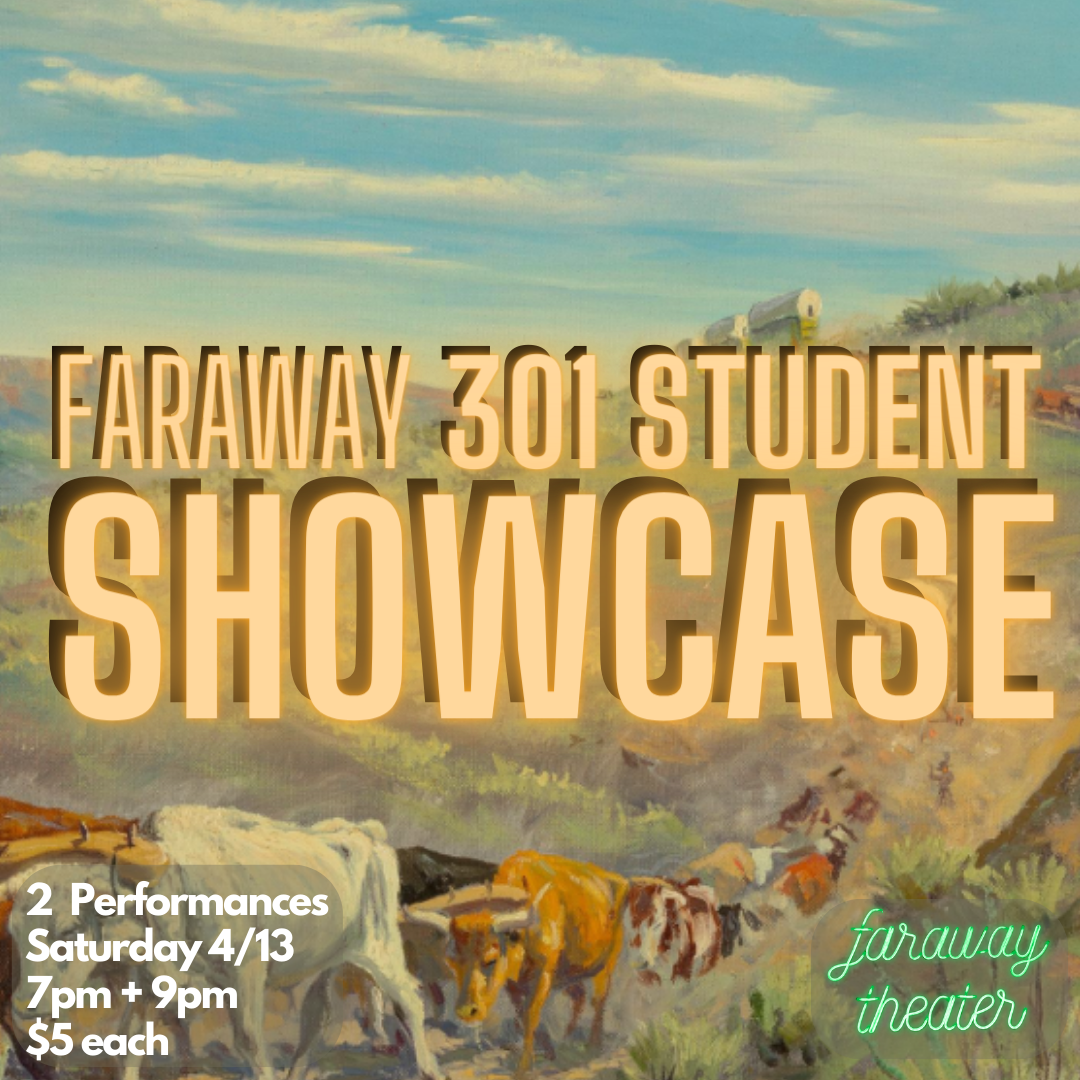
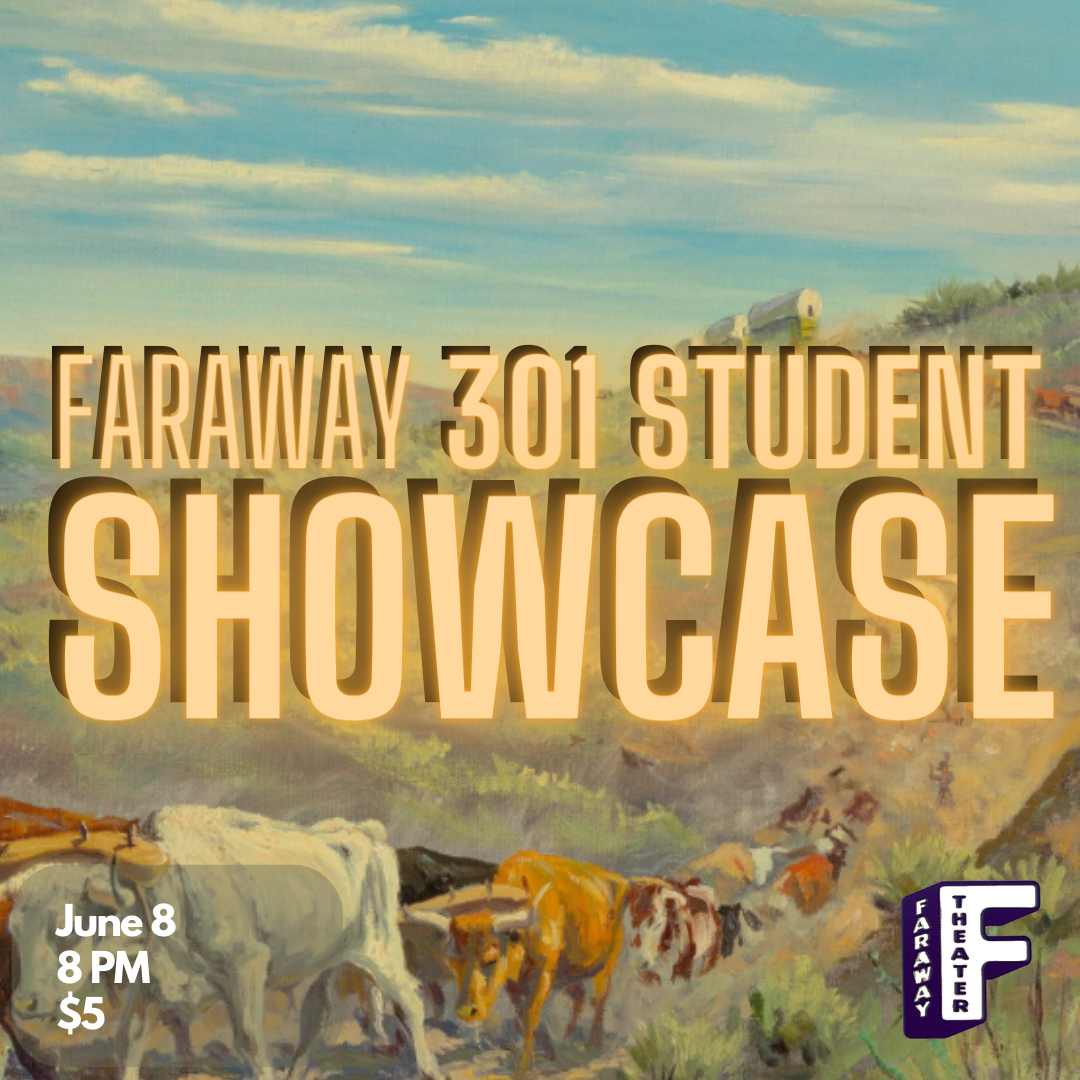
Updates

Changed region(s): [[0.7639, 0.7944, 0.9778, 0.9778], [0.0306, 0.7944, 0.3056, 0.9778]]

diff --git a/assets/index-BUV68XlL.js b/assets/index-BUV68XlL.js
@@ -1,0 +1,1 @@
+var Nt=Object.defineProperty;var Bt=(e,t,l)=>t in e?Nt(e,t,{enumerable:!0,configurable:!0,writable:!0,value:l}):e[t]=l;var lt=(e,t,l)=>(Bt(e,typeof t!="symbol"?t+"":t,l),l);(function(){const t=document.createElement("link").relList;if(t&&t.supports&&t.supports("modulepreload"))return;for(const i of document.querySelectorAll('link[rel="modulepreload"]'))n(i);new MutationObserver(i=>{for(const o of i)if(o.type==="childList")for(const a of o.addedNodes)a.tagName==="LINK"&&a.rel==="modulepreload"&&n(a)}).observe(document,{childList:!0,subtree:!0});function l(i){const o={};return i.integrity&&(o.integrity=i.integrity),i.referrerPolicy&&(o.referrerPolicy=i.referrerPolicy),i.crossOrigin==="use-credentials"?o.credentials="include":i.crossOrigin==="anonymous"?o.credentials="omit":o.credentials="same-origin",o}function n(i){if(i.ep)return;i.ep=!0;const o=l(i);fetch(i.href,o)}})();function F(){}function At(e){return e()}function ht(){return Object.create(null)}function Q(e){e.forEach(At)}function jt(e){return typeof e=="function"}function C(e,t){return e!=e?t==t:e!==t||e&&typeof e=="object"||typeof e=="function"}let tt;function at(e,t){return e===t?!0:(tt||(tt=document.createElement("a")),tt.href=t,e===tt.href)}function Ct(e){return Object.keys(e).length===0}function h(e,t){e.appendChild(t)}function M(e,t,l){e.insertBefore(t,l||null)}function b(e){e.parentNode&&e.parentNode.removeChild(e)}function Y(e,t){for(let l=0;l<e.length;l+=1)e[l]&&e[l].d(t)}function w(e){return document.createElement(e)}function S(e){return document.createTextNode(e)}function $(){return S(" ")}function nt(){return S("")}function k(e,t,l){l==null?e.removeAttribute(t):e.getAttribute(t)!==l&&e.setAttribute(t,l)}function Lt(e){return Array.from(e.childNodes)}function B(e,t){t=""+t,e.data!==t&&(e.data=t)}function y(e,t,l,n){l==null?e.style.removeProperty(t):e.style.setProperty(t,l,n?"important":"")}let ft;function X(e){ft=e}const q=[],dt=[];let z=[];const gt=[],It=Promise.resolve();let rt=!1;function Wt(){rt||(rt=!0,It.then(Et))}function ct(e){z.push(e)}const ot=new Set;let W=0;function Et(){if(W!==0)return;const e=ft;do{try{for(;W<q.length;){const t=q[W];W++,X(t),qt(t.$$)}}catch(t){throw q.length=0,W=0,t}for(X(null),q.length=0,W=0;dt.length;)dt.pop()();for(let t=0;t<z.length;t+=1){const l=z[t];ot.has(l)||(ot.add(l),l())}z.length=0}while(q.length);for(;gt.length;)gt.pop()();rt=!1,ot.clear(),X(e)}function qt(e){if(e.fragment!==null){e.update(),Q(e.before_update);const t=e.dirty;e.dirty=[-1],e.fragment&&e.fragment.p(e.ctx,t),e.after_update.forEach(ct)}}function zt(e){const t=[],l=[];z.forEach(n=>e.indexOf(n)===-1?t.push(n):l.push(n)),l.forEach(n=>n()),z=t}const et=new Set;let N;function H(){N={r:0,c:[],p:N}}function J(){N.r||Q(N.c),N=N.p}function g(e,t){e&&e.i&&(et.delete(e),e.i(t))}function v(e,t,l,n){if(e&&e.o){if(et.has(e))return;et.add(e),N.c.push(()=>{et.delete(e),n&&(l&&e.d(1),n())}),e.o(t)}else n&&n()}function T(e){return(e==null?void 0:e.length)!==void 0?e:Array.from(e)}function E(e){e&&e.c()}function D(e,t,l){const{fragment:n,after_update:i}=e.$$;n&&n.m(t,l),ct(()=>{const o=e.$$.on_mount.map(At).filter(jt);e.$$.on_destroy?e.$$.on_destroy.push(...o):Q(o),e.$$.on_mount=[]}),i.forEach(ct)}function A(e,t){const l=e.$$;l.fragment!==null&&(zt(l.after_update),Q(l.on_destroy),l.fragment&&l.fragment.d(t),l.on_destroy=l.fragment=null,l.ctx=[])}function Ht(e,t){e.$$.dirty[0]===-1&&(q.push(e),Wt(),e.$$.dirty.fill(0)),e.$$.dirty[t/31|0]|=1<<t%31}function L(e,t,l,n,i,o,a=null,f=[-1]){const r=ft;X(e);const c=e.$$={fragment:null,ctx:[],props:o,update:F,not_equal:i,bound:ht(),on_mount:[],on_destroy:[],on_disconnect:[],before_update:[],after_update:[],context:new Map(t.context||(r?r.$$.context:[])),callbacks:ht(),dirty:f,skip_bound:!1,root:t.target||r.$$.root};a&&a(c.root);let s=!1;if(c.ctx=l?l(e,t.props||{},(u,m,..._)=>{const d=_.length?_[0]:m;return c.ctx&&i(c.ctx[u],c.ctx[u]=d)&&(!c.skip_bound&&c.bound[u]&&c.bound[u](d),s&&Ht(e,u)),m}):[],c.update(),s=!0,Q(c.before_update),c.fragment=n?n(c.ctx):!1,t.target){if(t.hydrate){const u=Lt(t.target);c.fragment&&c.fragment.l(u),u.forEach(b)}else c.fragment&&c.fragment.c();t.intro&&g(e.$$.fragment),D(e,t.target,t.anchor),Et()}X(r)}class I{constructor(){lt(this,"$$");lt(this,"$$set")}$destroy(){A(this,1),this.$destroy=F}$on(t,l){if(!jt(l))return F;const n=this.$$.callbacks[t]||(this.$$.callbacks[t]=[]);return n.push(l),()=>{const i=n.indexOf(l);i!==-1&&n.splice(i,1)}}$set(t){this.$$set&&!Ct(t)&&(this.$$.skip_bound=!0,this.$$set(t),this.$$.skip_bound=!1)}}const Jt="4";typeof window<"u"&&(window.__svelte||(window.__svelte={v:new Set})).v.add(Jt);function _t(e,t,l){const n=e.slice();return n[6]=t[l],n}function Rt(e){let t,l,n,i;return{c(){t=w("a"),l=w("img"),i=$(),k(l,"alt",e[6].title),y(l,"max-width","80%"),y(l,"max-height","80%"),y(l,"margin-top",".5em"),at(l.src,n=e[6].img)||k(l,"src",n),k(t,"href",e[6].link),k(t,"target","_blank")},m(o,a){M(o,t,a),h(t,l),h(t,i)},p:F,d(o){o&&b(t)}}}function yt(e){let t,l=e[6].link!==void 0&&e[6].link!==""&&Rt(e);return{c(){l&&l.c(),t=nt()},m(n,i){l&&l.m(n,i),M(n,t,i)},p(n,i){n[6].link!==void 0&&n[6].link!==""&&l.p(n,i)},d(n){n&&b(t),l&&l.d(n)}}}function Ut(e){let t;return{c(){t=w("div"),t.innerHTML='<div style="position: absolute; top: 50%; left: 50%; transform: translate(-50%, -50%); font-size: 8em; color: white;">X</div>',y(t,"position","absolute"),y(t,"top","0"),y(t,"left","0"),y(t,"width","100%"),y(t,"height","100%")},m(l,n){M(l,t,n)},d(l){l&&b(t)}}}function Gt(e){let t,l,n,i,o,a=T(e[1]),f=[];for(let c=0;c<a.length;c+=1)f[c]=yt(_t(e,a,c));let r=e[2]&&Ut();return{c(){t=w("div"),l=w("span"),n=S(e[0]),i=$();for(let c=0;c<f.length;c+=1)f[c].c();o=$(),r&&r.c(),y(l,"margin-left","5px"),k(t,"id","cell"),y(t,"display","flex"),y(t,"flex-direction","row"),y(t,"position","relative"),k(t,"class","svelte-gk2i8d")},m(c,s){M(c,t,s),h(t,l),h(l,n),h(t,i);for(let u=0;u<f.length;u+=1)f[u]&&f[u].m(t,null);h(t,o),r&&r.m(t,null)},p(c,[s]){if(s&1&&B(n,c[0]),s&2){a=T(c[1]);let u;for(u=0;u<a.length;u+=1){const m=_t(c,a,u);f[u]?f[u].p(m,s):(f[u]=yt(m),f[u].c(),f[u].m(t,o))}for(;u<f.length;u+=1)f[u].d(1);f.length=a.length}},i:F,o:F,d(c){c&&b(t),Y(f,c),r&&r.d()}}}function Kt(e,t,l){let{label:n}=t,{useMonth:i}=t,{currentMonth:o}=t,a=i[n],f=new Date;console.log(f.getDate());let r=parseInt(n)<f.getDate()&&o;return e.$$set=c=>{"label"in c&&l(0,n=c.label),"useMonth"in c&&l(3,i=c.useMonth),"currentMonth"in c&&l(4,o=c.currentMonth)},[n,a,r,i,o]}class Vt extends I{constructor(t){super(),L(this,t,Kt,Gt,C,{label:0,useMonth:3,currentMonth:4})}}function pt(e,t,l){const n=e.slice();return n[3]=t[l],n}function kt(e){let t,l;return t=new Vt({props:{currentMonth:e[2],useMonth:e[1],label:e[3]}}),{c(){E(t.$$.fragment)},m(n,i){D(t,n,i),l=!0},p(n,i){const o={};i&4&&(o.currentMonth=n[2]),i&2&&(o.useMonth=n[1]),i&1&&(o.label=n[3]),t.$set(o)},i(n){l||(g(t.$$.fragment,n),l=!0)},o(n){v(t.$$.fragment,n),l=!1},d(n){A(t,n)}}}function Xt(e){let t,l,n=T(e[0]),i=[];for(let a=0;a<n.length;a+=1)i[a]=kt(pt(e,n,a));const o=a=>v(i[a],1,1,()=>{i[a]=null});return{c(){t=w("div");for(let a=0;a<i.length;a+=1)i[a].c();k(t,"id","header"),y(t,"display","flex"),y(t,"justify-content","space-evenly"),k(t,"class","svelte-1761ldh")},m(a,f){M(a,t,f);for(let r=0;r<i.length;r+=1)i[r]&&i[r].m(t,null);l=!0},p(a,[f]){if(f&7){n=T(a[0]);let r;for(r=0;r<n.length;r+=1){const c=pt(a,n,r);i[r]?(i[r].p(c,f),g(i[r],1)):(i[r]=kt(c),i[r].c(),g(i[r],1),i[r].m(t,null))}for(H(),r=n.length;r<i.length;r+=1)o(r);J()}},i(a){if(!l){for(let f=0;f<n.length;f+=1)g(i[f]);l=!0}},o(a){i=i.filter(Boolean);for(let f=0;f<i.length;f+=1)v(i[f]);l=!1},d(a){a&&b(t),Y(i,a)}}}function Qt(e,t,l){let{days:n}=t,{useMonth:i}=t,{currentMonth:o}=t;return e.$$set=a=>{"days"in a&&l(0,n=a.days),"useMonth"in a&&l(1,i=a.useMonth),"currentMonth"in a&&l(2,o=a.currentMonth)},[n,i,o]}class Yt extends I{constructor(t){super(),L(this,t,Qt,Xt,C,{days:0,useMonth:1,currentMonth:2})}}function Zt(e){let t;return{c(){t=w("div"),t.innerHTML='<div class="day svelte-dcauac">Sunday</div> <div class="day svelte-dcauac">Monday</div> <div class="day svelte-dcauac">Tuesday</div> <div class="day svelte-dcauac">Wednesday</div> <div class="day svelte-dcauac">Thursday</div> <div class="day svelte-dcauac">Friday</div> <div class="day svelte-dcauac">Saturday</div>',k(t,"id","header"),y(t,"display","flex"),y(t,"justify-content","space-evenly"),k(t,"class","svelte-dcauac")},m(l,n){M(l,t,n)},p:F,i:F,o:F,d(l){l&&b(t)}}}class xt extends I{constructor(t){super(),L(this,t,null,Zt,C,{})}}function wt(e,t,l){const n=e.slice();return n[13]=t[l],n}function vt(e){let t,l;return t=new Yt({props:{currentMonth:e[0],useMonth:e[1],days:e[13]}}),{c(){E(t.$$.fragment)},m(n,i){D(t,n,i),l=!0},p(n,i){const o={};i&1&&(o.currentMonth=n[0]),i&2&&(o.useMonth=n[1]),i&8&&(o.days=n[13]),t.$set(o)},i(n){l||(g(t.$$.fragment,n),l=!0)},o(n){v(t.$$.fragment,n),l=!1},d(n){A(t,n)}}}function te(e){let t,l,n,i,o,a,f,r;a=new xt({});let c=T(e[3]),s=[];for(let m=0;m<c.length;m+=1)s[m]=vt(wt(e,c,m));const u=m=>v(s[m],1,1,()=>{s[m]=null});return{c(){t=w("div"),l=w("h1"),n=S(e[2]),i=$(),o=w("div"),E(a.$$.fragment),f=$();for(let m=0;m<s.length;m+=1)s[m].c();y(t,"display","flex"),y(t,"justify-content","center"),y(o,"display","flex"),y(o,"flex-direction","column"),y(o,"justify-content","space-evenly")},m(m,_){M(m,t,_),h(t,l),h(l,n),M(m,i,_),M(m,o,_),D(a,o,null),h(o,f);for(let d=0;d<s.length;d+=1)s[d]&&s[d].m(o,null);r=!0},p(m,[_]){if((!r||_&4)&&B(n,m[2]),_&11){c=T(m[3]);let d;for(d=0;d<c.length;d+=1){const O=wt(m,c,d);s[d]?(s[d].p(O,_),g(s[d],1)):(s[d]=vt(O),s[d].c(),g(s[d],1),s[d].m(o,null))}for(H(),d=c.length;d<s.length;d+=1)u(d);J()}},i(m){if(!r){g(a.$$.fragment,m);for(let _=0;_<c.length;_+=1)g(s[_]);r=!0}},o(m){v(a.$$.fragment,m),s=s.filter(Boolean);for(let _=0;_<s.length;_+=1)v(s[_]);r=!1},d(m){m&&(b(t),b(i),b(o)),A(a),Y(s,m)}}}function ee(e,t,l){let{currentMonth:n}=t,{useMonth:i}=t,{month:o}=t,{dayOfFirst:a}=t,{numDays:f}=t,r=1,c=[],s=[],u=[],m=[],_=[],d=[],O=[s,u,m,_,d];for(let p=0;p<a;p++)c.push("x");for(let p=a;p<7;p++)c.push(r),r+=1;for(const p of O)for(let R=0;R<7;R++)r<=f?(p.push(r),r+=1):p.push("x");return O=[c,s,u,m,_,d],e.$$set=p=>{"currentMonth"in p&&l(0,n=p.currentMonth),"useMonth"in p&&l(1,i=p.useMonth),"month"in p&&l(2,o=p.month),"dayOfFirst"in p&&l(4,a=p.dayOfFirst),"numDays"in p&&l(5,f=p.numDays)},[n,i,o,O,a,f]}class bt extends I{constructor(t){super(),L(this,t,ee,te,C,{currentMonth:0,useMonth:1,month:2,dayOfFirst:4,numDays:5})}}let K={month:"May",dayOfFirst:3,numDays:31,x:[{}],1:[{title:"",location:"",time:"",link:"",img:""}],2:[{title:"After School Special",location:"Faraway",time:"7PM",link:"https://farawaybham.fourthwalltickets.com/shows/after-school-special?date=2024-05-02T19:00:00",img:"afterschoolspecial.png"}],3:[{title:"",location:"",time:"",link:"",img:""}],4:[{title:"",location:"",time:"",link:"",img:""}],5:[{title:"",location:"",time:"",link:"",img:""}],6:[{title:"",location:"",time:"",link:"",img:""}],7:[{title:"",location:"",time:"",link:"",img:""}],8:[{title:"Imporov! At the Cinema",location:"Sidewalk",time:"7PM",link:"https://www.tickettailor.com/events/chaoticgoodimprov/1023901?",img:"cinema.jpg"}],9:[{title:"After School Special",location:"Faraway",time:"7PM",link:"https://farawaybham.fourthwalltickets.com/shows/after-school-special?date=2024-05-09T19:00:00",img:"afterschoolspecial.png"}],10:[{title:"",location:"",time:"",link:"",img:""}],11:[{title:"",location:"",time:"",link:"",img:""}],12:[{title:"",location:"",time:"",link:"",img:""}],13:[{title:"",location:"",time:"",link:"",img:""},{title:"",location:"",time:"",link:"",img:""}],14:[{title:"Gladys",location:"Saturn",time:"830PM",link:"https://wl.seetickets.us/event/gladys-improv/598428?afflky=SaturnBirmingham",img:"cowboy.jpg"}],15:[{title:"",location:"",time:"",link:"",img:""}],16:[{title:"After School Special",location:"Faraway",time:"7PM",link:"https://farawaybham.fourthwalltickets.com/shows/after-school-special?date=2024-05-09T19:00:00",img:"afterschoolspecial.png"}],17:[{title:"Ugly Baby",location:"Faraway",time:"8PM",link:"https://farawaybham.fourthwalltickets.com/shows/ugly-baby?date=2024-05-17T20:00:00",img:"ub517.jpg"}],18:[{title:"",location:"",time:"",link:"",img:""}],19:[{title:"",location:"",time:"",link:"",img:""}],20:[{title:"",location:"",time:"",link:"",img:""}],21:[{title:"",location:"",time:"",link:"",img:""}],22:[{title:"",location:"",time:"",link:"",img:""}],23:[{title:"After School Special",location:"Faraway",time:"7PM",link:"https://farawaybham.fourthwalltickets.com/shows/after-school-special?date=2024-05-09T19:00:00",img:"afterschoolspecial.png"}],24:[{title:"Team Jam",location:"Faraway",time:"8PM",link:"https://farawaybham.fourthwalltickets.com/shows/team-jam?date=2024-05-24T20:00:00",img:"Team_Jam.png"}],25:[{title:"",location:"",time:"",link:"",img:""}],26:[{title:"",location:"",time:"",link:"",img:""}],27:[{title:"",location:"",time:"",link:"",img:""}],28:[{title:"",location:"",time:"",link:"",img:""}],29:[{title:"",location:"",time:"",link:"",img:""}],30:[{title:"After School Special",location:"Faraway",time:"7PM",link:"https://farawaybham.fourthwalltickets.com/shows/after-school-special?date=2024-05-09T19:00:00",img:"afterschoolspecial.png"}],31:[{title:"401 Showcase",location:"Faraway",time:"7 & 9 PM",link:"https://farawaybham.fourthwalltickets.com/shows",img:"401_showcase.png"}]},V={month:"June",dayOfFirst:6,numDays:31,x:[{}],1:[{title:"",location:"",time:"",link:"",img:""}],2:[{title:"",location:"",time:"",link:"",img:""}],3:[{title:"",location:"",time:"",link:"",img:""}],4:[{title:"",location:"",time:"",link:"",img:""}],5:[{title:"",location:"",time:"",link:"",img:""}],6:[{title:"After School Special",location:"Faraway",time:"7PM",link:"https://farawaybham.fourthwalltickets.com/shows/after-school-special?date=2024-05-09T19:00:00",img:"afterschoolspecial.png"}],7:[{title:"401 Showcase",location:"Faraway",time:"7 & 9 PM",link:"https://farawaybham.fourthwalltickets.com/shows",img:"401_showcase.png"}],8:[{title:"301 Showcase",location:"Faraway",time:"8PM",link:"https://farawaybham.fourthwalltickets.com/shows/301-student-showcase?date=2024-06-08T20:00:00",img:"301_Showcase.png"}],9:[{title:"",location:"",time:"",link:"",img:""}],10:[{title:"",location:"",time:"",link:"",img:""}],11:[{title:"",location:"",time:"",link:"",img:""}],12:[{title:"",location:"",time:"",link:"",img:""}],13:[{title:"After School Special",location:"Faraway",time:"7PM",link:"https://farawaybham.fourthwalltickets.com/shows/after-school-special?date=2024-05-09T19:00:00",img:"afterschoolspecial.png"},{title:"",location:"",time:"",link:"",img:""}],14:[{title:"401 Showcase",location:"Faraway",time:"7 & 9 PM",link:"https://farawaybham.fourthwalltickets.com/shows",img:"401_showcase.png"}],15:[{title:"",location:"",time:"",link:"",img:""}],16:[{title:"",location:"",time:"",link:"",img:""}],17:[{title:"",location:"",time:"",link:"",img:""}],18:[{title:"",location:"",time:"",link:"",img:""}],19:[{title:"",location:"",time:"",link:"",img:""}],20:[{title:"",location:"",time:"",link:"",img:""}],21:[{title:"",location:"",time:"",link:"",img:""}],22:[{title:"",location:"",time:"",link:"",img:""}],23:[{title:"Funny Business",location:"Carrigan's",time:"8PM",link:"https://www.eventbrite.com/e/funny-business-tickets-903839798167?aff=erelexpmlt",img:"fb523.png"}],24:[{title:"",location:"",time:"",link:"",img:""}],25:[{title:"",location:"",time:"",link:"",img:""}],26:[{title:"",location:"",time:"",link:"",img:""}],27:[{title:"",location:"",time:"",link:"",img:""}],28:[{title:"",location:"",time:"",link:"",img:""}],29:[{title:"",location:"",time:"",link:"",img:""}],30:[{title:"",location:"",time:"",link:"",img:""}],31:[{title:"",location:"",time:"",link:"",img:""}]};function ne(e){let t,l,n,i,o,a,f,r,c,s=e[0].title+"",u,m,_,d,O=e[0].location+"",p,R,U,st,Z,ut,G,mt,x=e[0].time+"",it;return{c(){t=w("div"),l=w("a"),n=w("img"),a=$(),f=w("div"),r=w("div"),c=w("b"),u=S(s),m=$(),_=w("div"),d=S("@ "),p=S(O),R=$(),U=w("a"),st=S("Details"),ut=$(),G=w("div"),mt=S("Time: "),it=S(x),at(n.src,i=e[0].img)||k(n,"src",i),k(n,"alt","Avatar"),y(n,"width","100%"),k(l,"href",o=e[0].img),y(r,"margin-top",".5em"),k(r,"class","svelte-ydyn62"),k(_,"class","svelte-ydyn62"),k(U,"href",Z=e[0].link),k(G,"class","svelte-ydyn62"),k(f,"class","container svelte-ydyn62"),k(t,"class","card svelte-ydyn62")},m(P,j){M(P,t,j),h(t,l),h(l,n),h(t,a),h(t,f),h(f,r),h(r,c),h(c,u),h(f,m),h(f,_),h(_,d),h(_,p),h(f,R),h(f,U),h(U,st),h(f,ut),h(f,G),h(G,mt),h(G,it)},p(P,[j]){j&1&&!at(n.src,i=P[0].img)&&k(n,"src",i),j&1&&o!==(o=P[0].img)&&k(l,"href",o),j&1&&s!==(s=P[0].title+"")&&B(u,s),j&1&&O!==(O=P[0].location+"")&&B(p,O),j&1&&Z!==(Z=P[0].link)&&k(U,"href",Z),j&1&&x!==(x=P[0].time+"")&&B(it,x)},i:F,o:F,d(P){P&&b(t)}}}function ie(e,t,l){let{data:n}=t;return e.$$set=i=>{"data"in i&&l(0,n=i.data)},[n]}class le extends I{constructor(t){super(),L(this,t,ie,ne,C,{data:0})}}function Mt(e,t,l){const n=e.slice();return n[6]=t[l],n[8]=l,n}function $t(e,t,l){const n=e.slice();return n[9]=t[l],n}function St(e){let t,l,n,i=e[0][e[6]][0].title!==""&&e[0][e[6]][0].title!==void 0&&Ft(e),o=T(e[0][e[6]]),a=[];for(let r=0;r<o.length;r+=1)a[r]=Pt($t(e,o,r));const f=r=>v(a[r],1,1,()=>{a[r]=null});return{c(){i&&i.c(),t=$();for(let r=0;r<a.length;r+=1)a[r].c();l=nt()},m(r,c){i&&i.m(r,c),M(r,t,c);for(let s=0;s<a.length;s+=1)a[s]&&a[s].m(r,c);M(r,l,c),n=!0},p(r,c){if(r[0][r[6]][0].title!==""&&r[0][r[6]][0].title!==void 0?i?i.p(r,c):(i=Ft(r),i.c(),i.m(t.parentNode,t)):i&&(i.d(1),i=null),c&5){o=T(r[0][r[6]]);let s;for(s=0;s<o.length;s+=1){const u=$t(r,o,s);a[s]?(a[s].p(u,c),g(a[s],1)):(a[s]=Pt(u),a[s].c(),g(a[s],1),a[s].m(l.parentNode,l))}for(H(),s=o.length;s<a.length;s+=1)f(s);J()}},i(r){if(!n){for(let c=0;c<o.length;c+=1)g(a[c]);n=!0}},o(r){a=a.filter(Boolean);for(let c=0;c<a.length;c+=1)v(a[c]);n=!1},d(r){r&&(b(t),b(l)),i&&i.d(r),Y(a,r)}}}function Ft(e){let t,l=e[4](e[6],e[0].dayOfFirst)+"",n,i,o=e[0].month+"",a,f,r=e[6]+"",c;return{c(){t=w("h1"),n=S(l),i=$(),a=S(o),f=$(),c=S(r)},m(s,u){M(s,t,u),h(t,n),h(t,i),h(t,a),h(t,f),h(t,c)},p(s,u){u&1&&l!==(l=s[4](s[6],s[0].dayOfFirst)+"")&&B(n,l),u&1&&o!==(o=s[0].month+"")&&B(a,o)},d(s){s&&b(t)}}}function Ot(e){let t,l;return t=new le({props:{data:e[9]}}),{c(){E(t.$$.fragment)},m(n,i){D(t,n,i),l=!0},p(n,i){const o={};i&1&&(o.data=n[9]),t.$set(o)},i(n){l||(g(t.$$.fragment,n),l=!0)},o(n){v(t.$$.fragment,n),l=!1},d(n){A(t,n)}}}function Pt(e){let t,l,n=e[9].title!==""&&e[9].title!==void 0&&Ot(e);return{c(){n&&n.c(),t=nt()},m(i,o){n&&n.m(i,o),M(i,t,o),l=!0},p(i,o){i[9].title!==""&&i[9].title!==void 0?n?(n.p(i,o),o&1&&g(n,1)):(n=Ot(i),n.c(),g(n,1),n.m(t.parentNode,t)):n&&(H(),v(n,1,1,()=>{n=null}),J())},i(i){l||(g(n),l=!0)},o(i){v(n),l=!1},d(i){i&&b(t),n&&n.d(i)}}}function Tt(e){let t=e[8]>=e[3].getDate()-1||!e[1],l,n,i=t&&St(e);return{c(){i&&i.c(),l=nt()},m(o,a){i&&i.m(o,a),M(o,l,a),n=!0},p(o,a){a&2&&(t=o[8]>=o[3].getDate()-1||!o[1]),t?i?(i.p(o,a),a&2&&g(i,1)):(i=St(o),i.c(),g(i,1),i.m(l.parentNode,l)):i&&(H(),v(i,1,1,()=>{i=null}),J())},i(o){n||(g(i),n=!0)},o(o){v(i),n=!1},d(o){o&&b(l),i&&i.d(o)}}}function oe(e){let t,l,n=T(e[2]),i=[];for(let a=0;a<n.length;a+=1)i[a]=Tt(Mt(e,n,a));const o=a=>v(i[a],1,1,()=>{i[a]=null});return{c(){t=w("div");for(let a=0;a<i.length;a+=1)i[a].c();y(t,"display","flex"),y(t,"flex-direction","column")},m(a,f){M(a,t,f);for(let r=0;r<i.length;r+=1)i[r]&&i[r].m(t,null);l=!0},p(a,[f]){if(f&31){n=T(a[2]);let r;for(r=0;r<n.length;r+=1){const c=Mt(a,n,r);i[r]?(i[r].p(c,f),g(i[r],1)):(i[r]=Tt(c),i[r].c(),g(i[r],1),i[r].m(t,null))}for(H(),r=n.length;r<i.length;r+=1)o(r);J()}},i(a){if(!l){for(let f=0;f<n.length;f+=1)g(i[f]);l=!0}},o(a){i=i.filter(Boolean);for(let f=0;f<i.length;f+=1)v(i[f]);l=!1},d(a){a&&b(t),Y(i,a)}}}function ae(e,t,l){let{month:n}=t,{currentMonth:i}=t,o=[],a=new Date;for(let c=1;c<=n.numDays;c++)o.push(c);let f={0:"Sunday",1:"Monday",2:"Tuesday",3:"Wednesday",4:"Thursday",5:"Friday",6:"Saturday"};function r(c,s){return f[(s+c-1)%7]}return e.$$set=c=>{"month"in c&&l(0,n=c.month),"currentMonth"in c&&l(1,i=c.currentMonth)},[n,i,o,a,r]}class Dt extends I{constructor(t){super(),L(this,t,ae,oe,C,{month:0,currentMonth:1})}}function re(e){let t,l,n,i;return t=new Dt({props:{currentMonth:!0,month:K}}),n=new Dt({props:{currentMonth:!1,month:V}}),{c(){E(t.$$.fragment),l=$(),E(n.$$.fragment)},m(o,a){D(t,o,a),M(o,l,a),D(n,o,a),i=!0},i(o){i||(g(t.$$.fragment,o),g(n.$$.fragment,o),i=!0)},o(o){v(t.$$.fragment,o),v(n.$$.fragment,o),i=!1},d(o){o&&b(l),A(t,o),A(n,o)}}}function ce(e){let t,l,n,i;return t=new bt({props:{useMonth:K,dayOfFirst:K.dayOfFirst,numDays:K.numDays,month:K.month,currentMonth:!0}}),n=new bt({props:{useMonth:V,dayOfFirst:V.dayOfFirst,numDays:V.numDays,month:V.month,currentMonth:!1}}),{c(){E(t.$$.fragment),l=$(),E(n.$$.fragment)},m(o,a){D(t,o,a),M(o,l,a),D(n,o,a),i=!0},i(o){i||(g(t.$$.fragment,o),g(n.$$.fragment,o),i=!0)},o(o){v(t.$$.fragment,o),v(n.$$.fragment,o),i=!1},d(o){o&&b(l),A(t,o),A(n,o)}}}function fe(e){let t,l,n,i;const o=[ce,re],a=[];function f(r,c){return r[0]>725?0:1}return l=f(e),n=a[l]=o[l](e),{c(){t=w("main"),n.c()},m(r,c){M(r,t,c),a[l].m(t,null),i=!0},p:F,i(r){i||(g(n),i=!0)},o(r){v(n),i=!1},d(r){r&&b(t),a[l].d()}}}function se(e){return[window.innerWidth]}class ue extends I{constructor(t){super(),L(this,t,se,fe,C,{})}}new ue({target:document.getElementById("app")});

diff --git a/index.html b/index.html
@@ -5,7 +5,7 @@
     <link rel="icon" type="image/svg+xml" href="https://wcstrickland.github.io/calendar/vite.svg" />
     <meta name="viewport" content="width=device-width, initial-scale=1.0" />
     <title>Community Calendar</title>
-    <script type="module" crossorigin src="https://wcstrickland.github.io/calendar/assets/index-D97KUqMP.js"></script>
+    <script type="module" crossorigin src="https://wcstrickland.github.io/calendar/assets/index-BUV68XlL.js"></script>
     <link rel="stylesheet" crossorigin href="https://wcstrickland.github.io/calendar/assets/index-CgVPETwg.css">
   </head>
   <body>
